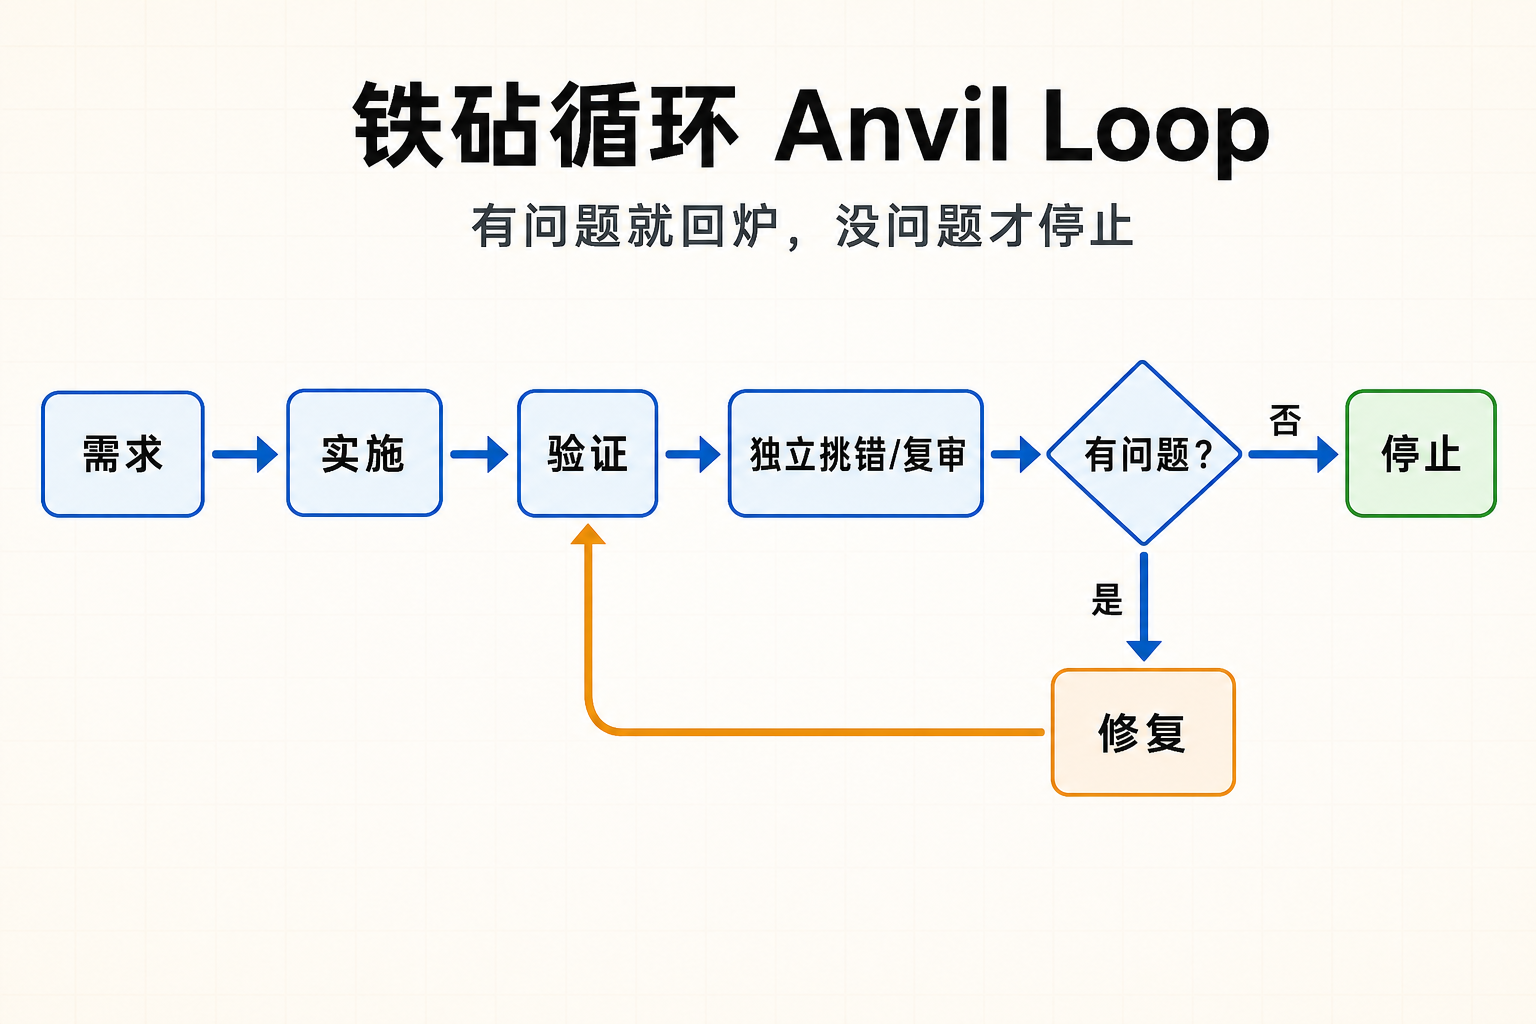
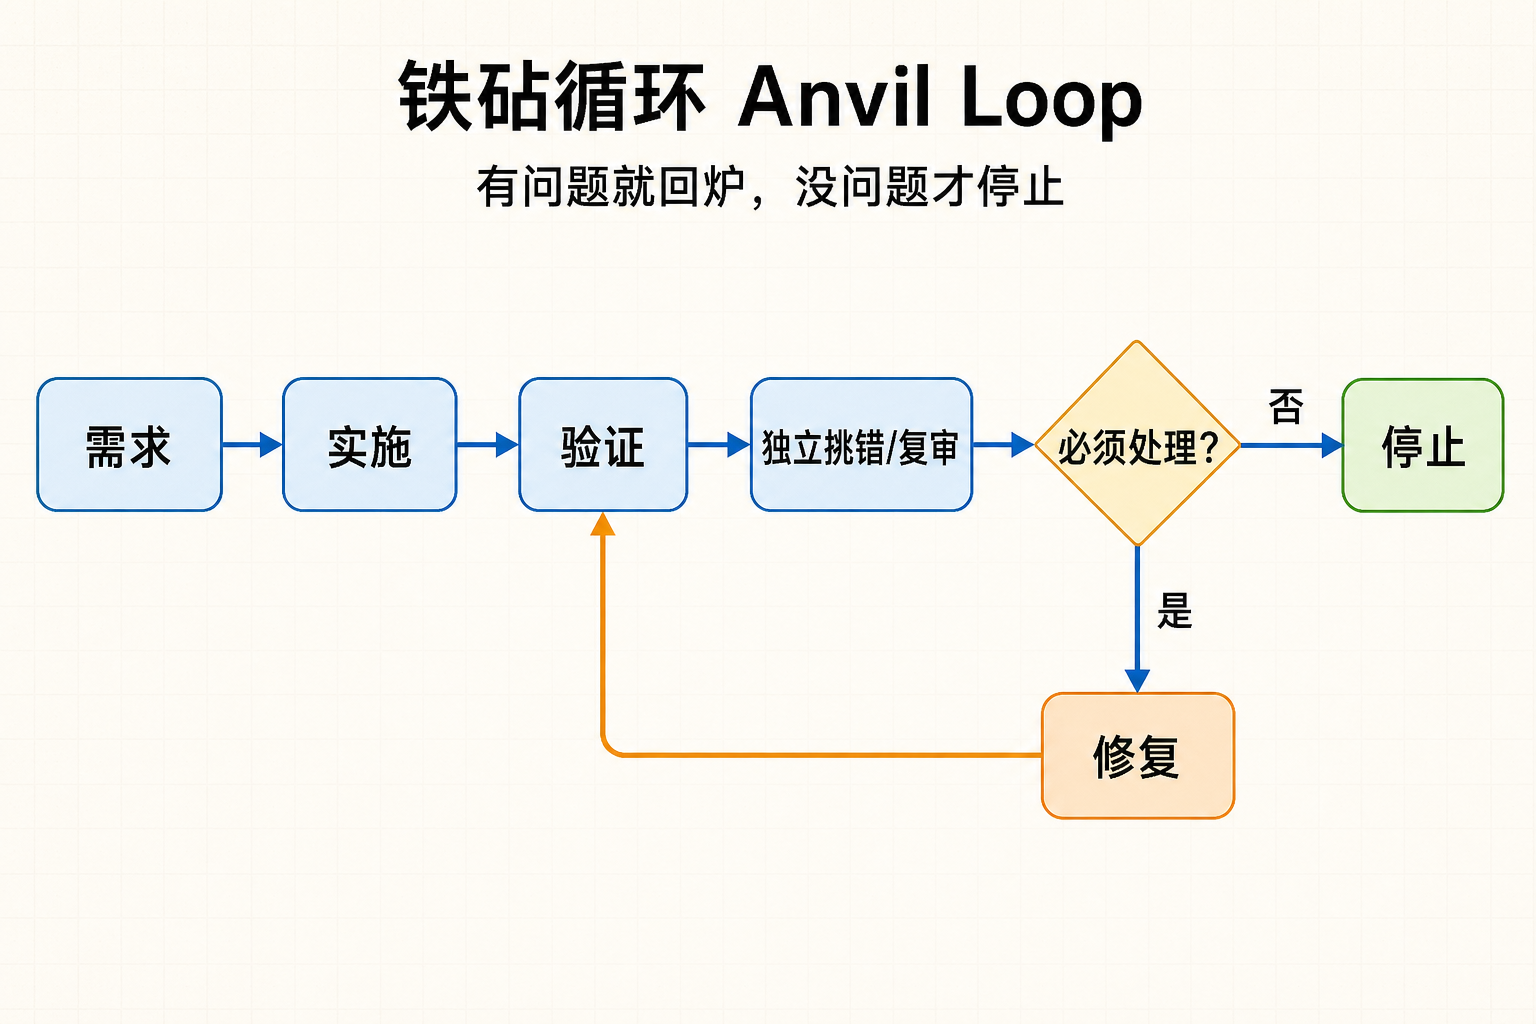
docs: clarify Anvil Loop decision point

Changed region(s): [[0.0, 0.3125, 1.0, 0.8125], [0.2188, 0.0625, 0.8438, 0.25]]

diff --git a/assets/anvil-loop-flowchart.zh.html b/assets/anvil-loop-flowchart.zh.html
@@ -62,7 +62,7 @@
   <text x="1000" y="328" class="small">独立挑错/复审</text>
 
   <polygon points="1280,238 1382,328 1280,418 1178,328" class="diamond"/>
-  <text x="1280" y="328" class="txt">有问题？</text>
+  <text x="1280" y="328" class="txt">必须处理？</text>
 
   <rect x="610" y="570" width="190" height="96" rx="24" class="node-fix"/>
   <text x="705" y="618" class="txt">修复</text>

diff --git a/README.md b/README.md
@@ -12,7 +12,7 @@ Use it when a change touches risk: deploys, migrations, backups, auth, credentia
 
 Generated with `image_gen` / `openai-codex` / `gpt-image-2-medium`. A deterministic HTML/SVG fallback is in [`assets/anvil-loop-flowchart.zh.html`](assets/anvil-loop-flowchart.zh.html).
 
-In the graph, `有问题？` means **a blocker or proven issue that must be handled before shipping**. Non-blockers can be documented, accepted, or deferred.
+In the graph, `必须处理？` means a blocker or proven issue that must be handled before shipping. Non-blockers can be documented, accepted, or deferred.
 
 ## What it means
 
@@ -36,7 +36,15 @@ Canonical skill file:
 
 `skills/software-development/anvil-loop-development/SKILL.md`
 
-For a local Hermes install, run from this repo root:
+For a local Hermes install, use the raw skill URL:
+
+```bash
+hermes skills install \
+  https://raw.githubusercontent.com/getaskclaw/anvil-loop/main/skills/software-development/anvil-loop-development/SKILL.md \
+  --category software-development
+```
+
+Manual fallback, run from this repo root:
 
 ```bash
 mkdir -p ~/.hermes/skills/software-development/anvil-loop-development
@@ -45,7 +53,7 @@ cp skills/software-development/anvil-loop-development/SKILL.md \
 hermes skills list | grep anvil-loop-development
 ```
 
-Then start a new Hermes session. In an existing CLI session use `/reset`; in Telegram/Discord gateway use `/restart` if the tool/skill list does not refresh.
+Then start a new Hermes session. In an existing CLI session use `/reset`; in Telegram/Discord gateway use `/restart` if the tool/skill list does not refresh. Load it with `/skill anvil-loop-development`.
 
 There is intentionally no root `SKILL.md`, to avoid duplicate drift.
 
